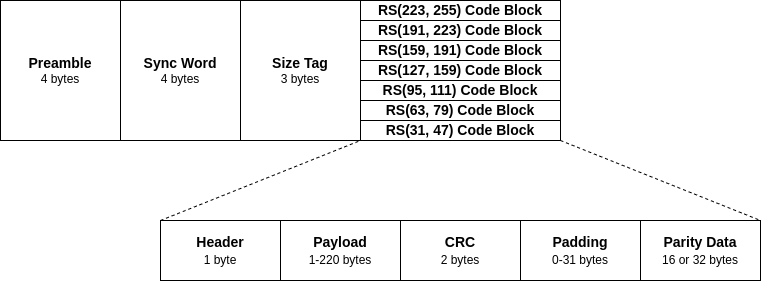
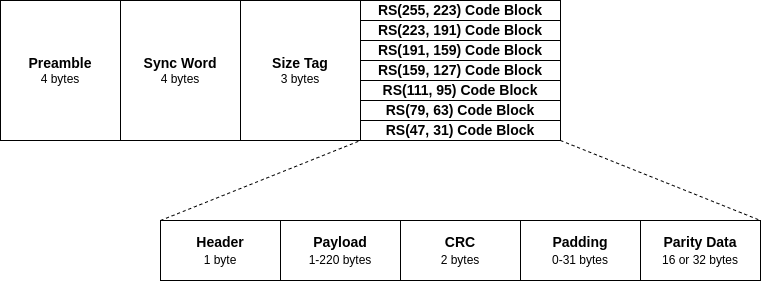
docs: Adding a brief description of the NGHam protocol

diff --git a/pyngham/version.py b/pyngham/version.py
@@ -25,7 +25,7 @@ __author__      = "Gabriel Mariano Marcelino - PU5GMA"
 __copyright__   = "Copyright (C) 2022, Gabriel Mariano Marcelino"
 __credits__     = ["Gabriel Mariano Marcelino - PU5GMA"]
 __license__     = "LGPLv3"
-__version__     = "0.2.0"
+__version__     = "0.2.1"
 __maintainer__  = "Gabriel Mariano Marcelino - PU5GMA"
 __email__       = "gabriel.mm8@gmail.com"
 __status__      = "Production"

diff --git a/docs/conf.py b/docs/conf.py
@@ -39,7 +39,7 @@ copyright = '2022, Gabriel Mariano Marcelino - PU5GMA'
 author = 'Gabriel Mariano Marcelino'
 
 # The full version, including alpha/beta/rc tags
-release = "0.2"
+release = "0.3"
 
 
 # -- General configuration ---------------------------------------------------

diff --git a/docs/protocol.rst b/docs/protocol.rst
@@ -2,6 +2,23 @@
 Protocol Description
 ********************
 
+This section presents a description of the NGHam protocol, like packet format, data fields, configuration parameters and others. More information can also be found in the original documentation [1]_.
+
+Overview
+========
+
+The NGHam protocol stands for *Next Generation Ham Radio*, being a protocol designed for packet communication. It is similar to the classical AX.25 [2]_ protocol, but with the idea of using a FEC (*Forwared Error Correction*) algorithm to increase the robustness, as defined in [3]_:
+
+    "*...a link protocol partly inspired by AX.25. In order to improve the link reliability, it features Reed Solomon codes for Forward Error Correction (FEC). This makes the data transmission more robust compared to i.e. AX.25, which does not implement FEC on the link layer directly.*"
+
+It was originally developed in the context of the CubeSat NUTS-1 (*NTNU Test Satellite*) development, by the Norwegian University of Science and Technology (NTNU). This library is based on the implementation of Jon Petter Skagmo (LA3JPA), available in [4]_.
+
+
+Packet Fields
+=============
+
+The figure below presents a diagram with packet format and the data fields of the NGHam protocol.
+
 .. figure:: ngham-pkt.png
       :width: 100%
       :align: center
@@ -9,49 +26,126 @@ Protocol Description
 
       Fig. Format of a NGHam packet.
 
-
-Packet Fields
-=============
+Next, there is a brief description of each one of those fields.
 
 Preamble
 --------
 
-.
+Considering a data rate of 9600 bps, 4 bytes is typically used for the preamble. This sequence is an alternation of ones and zeros: :math:`4 \times` 0xAA (0b10101010).
 
 Sync. Word
 ----------
 
-.
+The sync. word is a sequence of bits used for packet synchronization. With this sequence, the receiver can detect the start of a new packet. In NGHam, the sync. word is composed by 32 bits, following the pattern: 0x5D, 0xE6, 0x2A, 0x7E.
 
 Size Tag
 --------
 
-.
+This field indicates one of the seven possible packet sizes. It is a 24 bits tag and is made very robust by keeping a hamming distance of 13 bits between all vectors. The seven possible tags are listed below:
+
++---------------+---------------+--------------------------+-------------------------+
+| **Size Num.** | **Tag**       | **Reed-Solomon Config.** | **Max. Data Size**      |
++---------------+---------------+--------------------------+-------------------------+
+| 1             | 59, 73, 205   | RS(47, 31)               | up to 28 bytes of data  |
++---------------+---------------+--------------------------+-------------------------+
+| 2             | 77, 218, 87   | RS(79, 63)               | up to 60 bytes of data  |
++---------------+---------------+--------------------------+-------------------------+
+| 3             | 118, 147, 154 | RS(111, 95)              | up to 92 bytes of data  |
++---------------+---------------+--------------------------+-------------------------+
+| 4             | 155, 180, 174 | RS(159, 127)             | up to 124 bytes of data |
++---------------+---------------+--------------------------+-------------------------+
+| 5             | 160, 253, 99  | RS(191, 159)             | up to 156 bytes of data |
++---------------+---------------+--------------------------+-------------------------+
+| 6             | 214, 110, 249 | RS(223, 191)             | up to 188 bytes of data |
++---------------+---------------+--------------------------+-------------------------+
+| 7             | 237, 39, 52   | RS(255, 223)             | up to 220 bytes of data |
++---------------+---------------+--------------------------+-------------------------+
 
 Reed-Solomon Block
 ------------------
 
+The Reed-Solomon code block (or just RS block), is the field with packet payload and parity data. It is divided in two parts: data and parity bytes. The data bytes is subdivided in four different fields: header, payload, checksum and padding. Each one of these fields are described below.
+
 Header
 ......
 
-.
+The header byte is the first data byte of the RS block. It is divided as presented in the table below.
+
++----------+-------------------------+
+| **Bits** | **Purpose**             |
++----------+-------------------------+
+| 7 to 6   | Reserved                |
++----------+-------------------------+
+| 5        | Extension on            |
++----------+-------------------------+
+| 4 to 0   | Padding size (in bytes) |
++----------+-------------------------+
+
+The extension bit indicates if the extension frame is enabled or not. The padding size bits is the number padding bytes presented in the respective packet (0 to 31).
+
+.. note::
+
+   The extensions are not implemented yet on this library!
 
 Payload
 .......
 
-.
+The payload field is where the "useful" data of the packet is stored. As presented in the Size Tag field description above, each one of the seven size groups allow a certain maximum number of bytes in the packet payload. The maximum possible length of the payload for a NGHam packet is 220 bytes. If more data need to be transmitted, it should be divided in multiples chunks of 220 bytes, and transmitted in separated packets.
 
 Checksum
 ........
 
-.
+To ensure data correctness and a first stage before running the Reed-Solomon correction algorithm, there is a checksum field after the payload data. The used checksum algorithm is the CRC16-CCITT [5]_, with the following configuration:
+
+* **Polynomial**: 0x1021
+* **Initial value**: 0xFFFF
+* **Final XOR value**: 0xFFFF
+
+The CRC16 value is computed from the header and the payload fields.
+
+If the CRC16 value is correct, the Reed-Solomon chain is skipped and the packet is directly considered valid. This way, the checksum field also allows a performance improvement.
 
 Padding
 .......
 
-.
+To ensure the right packet length for the Reed-Solomon coding in use, if the payload content is less than the maximum allowed, the data field of the RS block is padded with zeros. The number of padding bytes is declared in the header byte (bits 4-0).
 
 Parity Data
 ...........
 
-.
+This field is reserved for the computed parity bytes of the Reed-Solomon coding algorithm. The used implementation of the RS algorithm is based on the famous FEC library developed by Phil Karn (KA9Q) [6]_. This field can be 16 or 32 bytes long, depending on the payload length, and consequently, the adopted RS scheme:
+
++---------------+--------------------------+------------------+
+| **Size Num.** | **Reed-Solomon Config.** | **Parity bytes** |
++---------------+--------------------------+------------------+
+| 1             | RS(47, 31)               | 16               |
++---------------+--------------------------+------------------+
+| 2             | RS(79, 63)               | 16               |
++---------------+--------------------------+------------------+
+| 3             | RS(111, 95)              | 16               |
++---------------+--------------------------+------------------+
+| 4             | RS(159, 127)             | 32               |
++---------------+--------------------------+------------------+
+| 5             | RS(191, 159)             | 32               |
++---------------+--------------------------+------------------+
+| 6             | RS(223, 191)             | 32               |
++---------------+--------------------------+------------------+
+| 7             | RS(255, 233)             | 32               |
++---------------+--------------------------+------------------+
+
+Scrambling
+==========
+
+Before transmitting a packet, the RS code block is scrambled by making a byte xor operation with a pre-generated table based on the polynomial :math:`x^{8} + x^{7} + x^{5} + x^{3} + 1` (defined in the CCSDS 131.0-B-3 standard [7]_).
+
+When the receiver received a packet, it also perform the same operation to de-scramble the RS code block and get the original content of the RS part of the packet.
+
+By scrambling the packets, long sequence of ones or zeros are avoided, by guarantying a good bit transition along the whole packet. More information about packet scrambling (or randomization) can be found in [7]_ (section 8.3).
+
+.. [1] https://github.com/skagmo/ngham/blob/master/documentation/ngham_manual.pdf
+.. [2] http://www.ax25.net/
+.. [3] Løfaldli, André; Birkeland, Roger. *Implementation of a Software Defined Radio Prototype Ground Station for CubeSats*. The 4S Symposium 2016.
+.. [4] https://github.com/skagmo/ngham
+.. [5] https://en.wikipedia.org/wiki/ITU-T
+.. [6] http://www.ka9q.net/code/fec/
+.. [7] https://public.ccsds.org/Pubs/132x0b3.pdf
